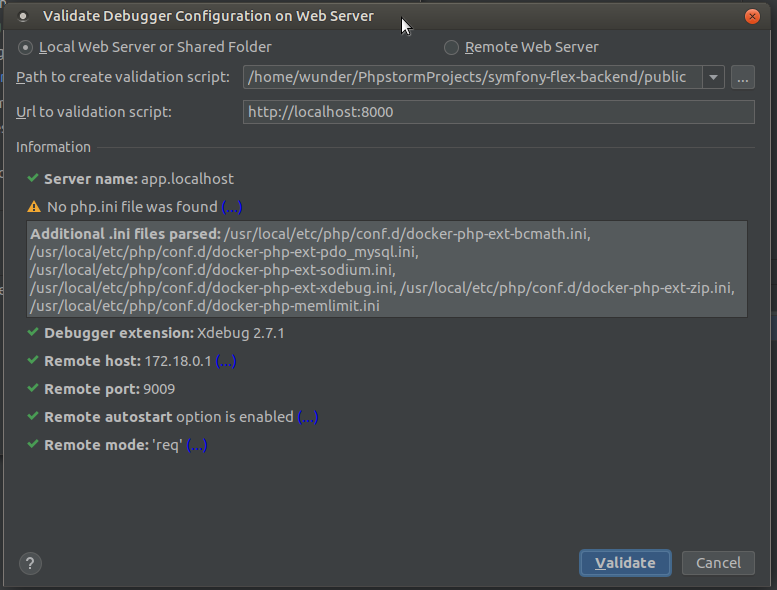
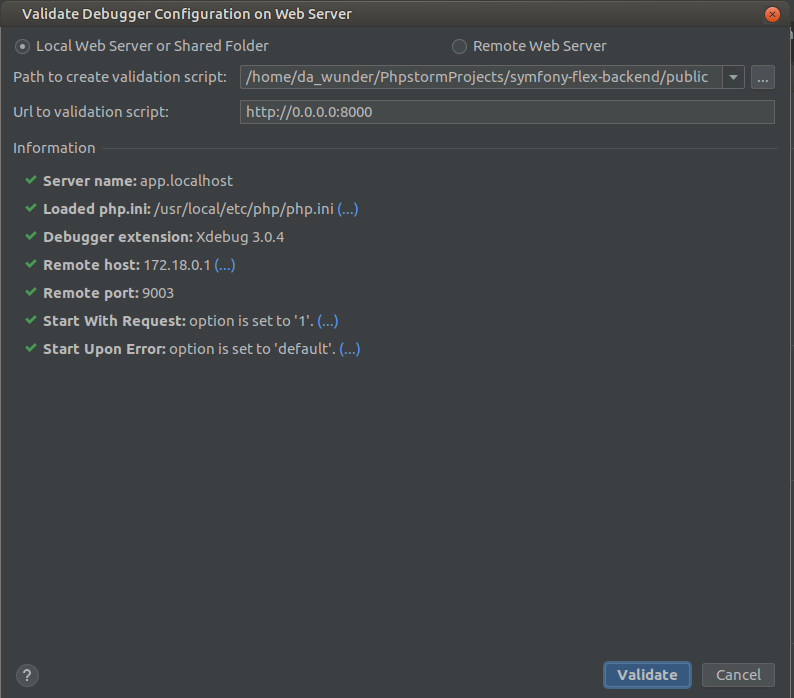
Updated Xdebug documentation

diff --git a/doc/XDEBUG.md b/doc/XDEBUG.md
@@ -31,7 +31,7 @@ Note that if you're using Mac, read [Mac users](#mac-users) section first.
 
 ### PhpStorm basic configuration
 
-1) Make sure that Xdebug port is `9009`
+1) Make sure that Xdebug port is `9003`
 2) Validate debugger configuration
 3) Install needed browser extensions
 
@@ -98,11 +98,11 @@ override that in your local `docker-compose.override.yml` file.
 See those [External links / resources](#external-links--resources) on this
 documentation to get more information.
 
-## Debug Postman requests
+~~## Debug Postman requests~~
 
-If you're using [Postman](https://www.getpostman.com/) to test / debug your
+~~If you're using [Postman](https://www.getpostman.com/) to test / debug your
 application you need to add `?XDEBUG_SESSION_START=PHPSTORM` to each URL
-that you use with Postman.
+that you use with Postman.~~
 
 ## External links / resources
 
